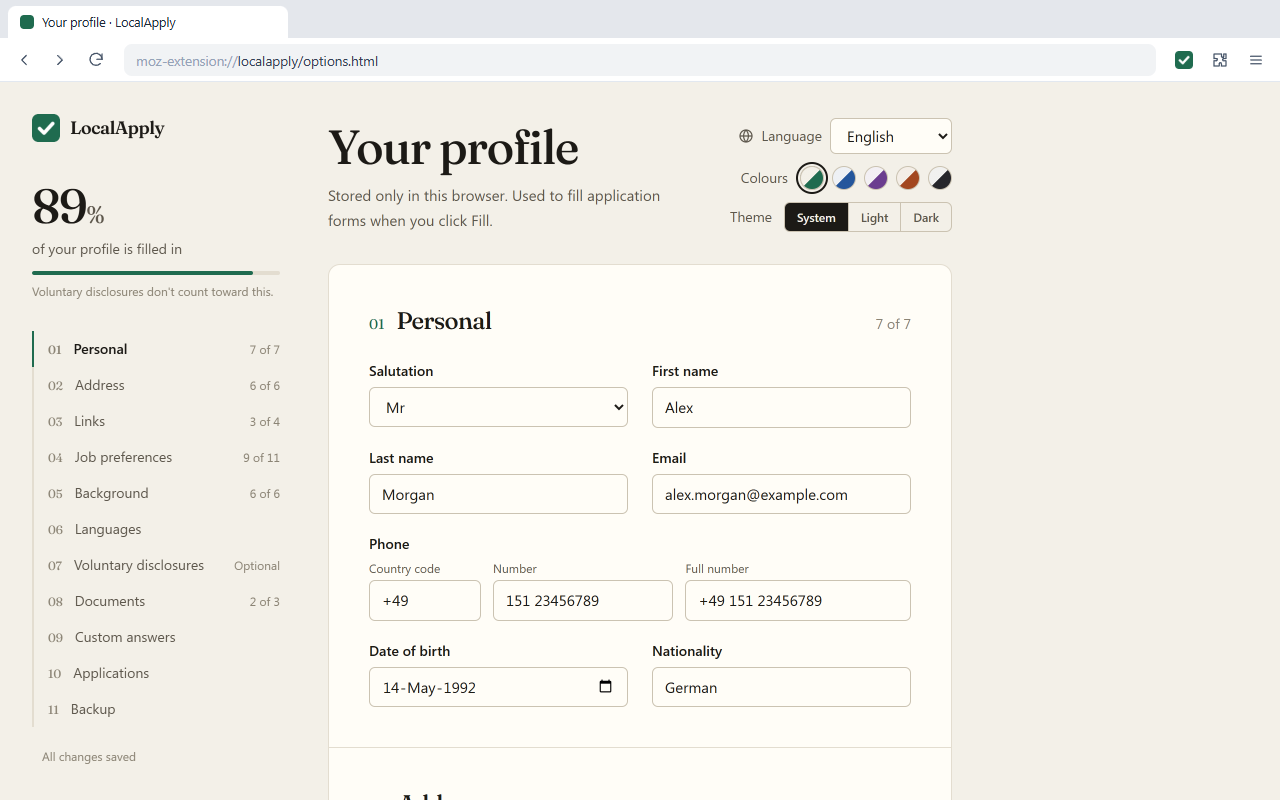
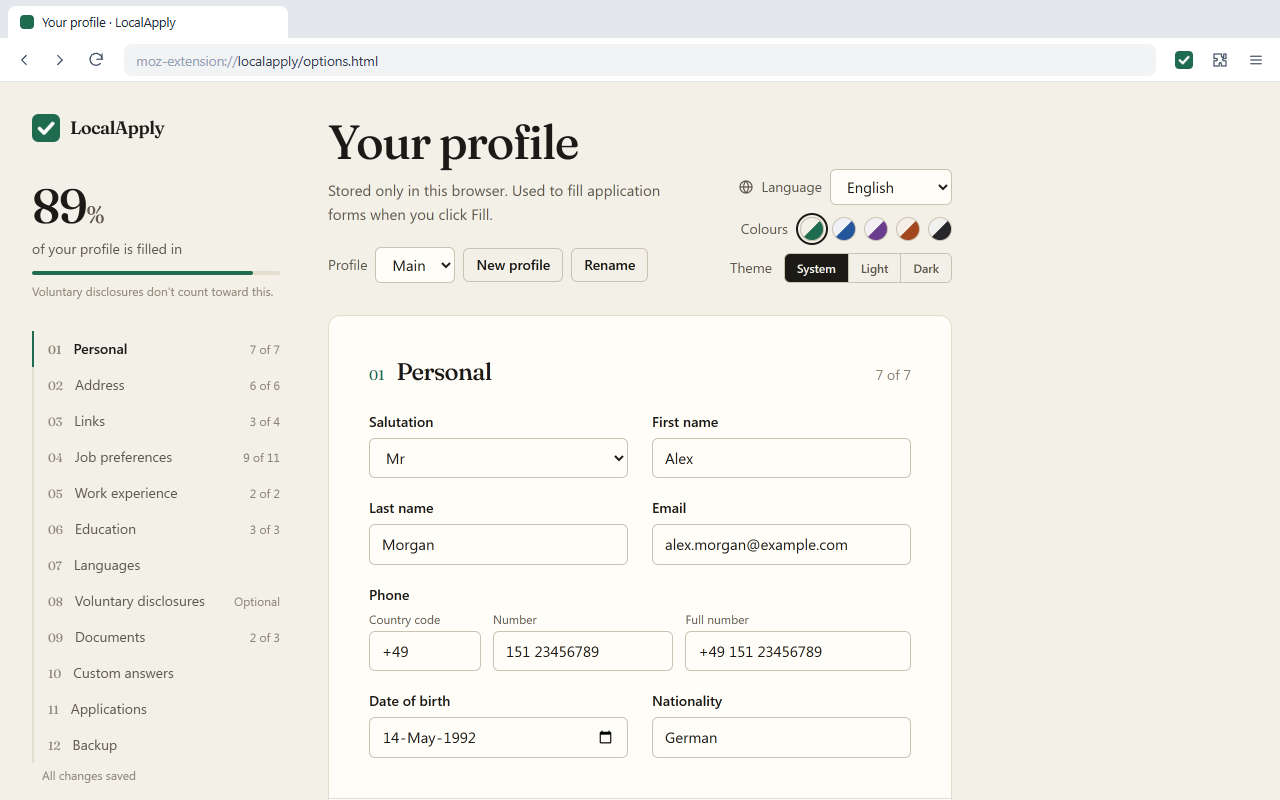
Privacy policy, docs and listings for 0.8.0
The privacy policy lists work history, education and several profiles, and the profile name in the application log. docs/architecture.md describes the per-profile storage and how list entries match form blocks. Store descriptions in all eight languages mention work history, education and profiles; store screenshots show the profile switcher and the new cards.

diff --git a/PRIVACY.md b/PRIVACY.md
@@ -9,8 +9,9 @@ LocalApply is a browser extension that fills job application forms with informat
 What you enter on its profile page, and the application log described below:
 
 - **Personal and contact details:** name, salutation, email address, phone number, date of birth, nationality and postal address.
-- **Professional details:** links (LinkedIn, GitHub, Xing, portfolio), current job title and employer, education and highest education level, spoken languages and their level, salary expectation and range, notice period, earliest start date, years of experience, work authorisation, visa sponsorship, relocation and travel preferences, and driving licence.
+- **Professional details:** links (LinkedIn, GitHub, Xing, portfolio), work history (job titles, employers, locations, dates and what you did), education (schools, degrees, fields of study and dates) and highest education level, spoken languages and their level, salary expectation and range, notice period, earliest start date, years of experience, work authorisation, visa sponsorship, relocation and travel preferences, and driving licence.
 - **Documents:** your CV and cover letter files, and cover letter text.
+- **Several profiles**, if you make more than one (for example one per language): each holds its own copy of the above, under a name you choose.
 - **Saved answers** to application questions.
 - **Optional voluntary disclosures**, only if you fill them in: gender, sexual orientation, disability status and veteran status.
 
@@ -18,7 +19,7 @@ To decide which form field needs which piece of your information, LocalApply rea
 
 ## Application log
 
-So you can see where you applied, LocalApply notes each application form it fills: the date, the employer's name and job title as read from the page, and the page's address without anything after it (no "?…" query, which can contain tokens). The log is on unless you turn it off, and is stored only in your browser like your profile. On the profile page, under Applications, you can turn it off, remove single entries, clear it, or export it as a CSV file. Nothing is noted for pages you only visit, and "Delete all data" clears the log too.
+So you can see where you applied, LocalApply notes each application form it fills: the date, the employer's name and job title as read from the page, the name of the profile that filled it, and the page's address without anything after it (no "?…" query, which can contain tokens). The log is on unless you turn it off, and is stored only in your browser like your profile. On the profile page, under Applications, you can turn it off, remove single entries, clear it, or export it as a CSV file. Nothing is noted for pages you only visit, and "Delete all data" clears the log too.
 
 ## How the information is used
 

diff --git a/README.md b/README.md
@@ -22,13 +22,14 @@ Everything stays in the browser: no account, no server, no AI service, no networ
 
 ## Features
 
-- **Fills the repetitive part:** name, email, phone (including country-code pickers), address, date of birth, LinkedIn, GitHub, Xing and portfolio links, salary expectation, notice period, start date, years of experience, work authorisation, visa sponsorship and relocation questions, current job, highest education level and degree, spoken languages and their level, driving licence, travel and salary-range questions, CV and cover letter.
+- **Fills the repetitive part:** name, email, phone (including country-code pickers), address, date of birth, LinkedIn, GitHub, Xing and portfolio links, salary expectation, notice period, start date, years of experience, work authorisation, visa sponsorship and relocation questions, work history and education (one entry per block, even on forms that list several jobs or schools), highest education level, spoken languages and their level, driving licence, travel and salary-range questions, CV and cover letter.
 - **Works in eight languages:** recognises form labels in English, German, French, Spanish, Italian, Dutch, Portuguese and Polish, and the interface itself speaks all eight.
 - **Writes to the right company:** put `{company}` and `{position}` in your cover letter or saved answers and they are replaced with the employer and job title from the page, even when the form sits in an embedded frame.
 - **Keeps track:** every application it fills is noted in a log in your browser, with date, company, job title and link, ready to export as CSV. You can turn it off.
 - **Answers each question once:** save your reply to a recurring question like "How did you hear about us?" and it is filled in next time.
 - **Shows what it did:** filled fields get a solid green outline, open required questions a dashed amber one. **Undo** puts everything back.
 - **Never submits:** it doesn't press Submit or Next, doesn't tick consent boxes, and leaves fields you already filled alone.
+- **Several profiles:** keep one per language or kind of job (a German CV, a QA one) and pick it in the popup before you fill.
 - **Looks the way you like:** five colour palettes (Forest, Ocean, Plum, Clay, Graphite), and a light or dark theme that follows your system or stays the way you set it.
 
 It works on ordinary company career pages and on Greenhouse, Ashby, Personio, Recruitee and Teamtailor, with site-specific handling for Workday, Lever, SmartRecruiters, SAP SuccessFactors and LinkedIn Easy Apply.

diff --git a/docs/architecture.md b/docs/architecture.md
@@ -28,7 +28,11 @@ popup  ◄──────────── fill-start / fill-result messages
 
 ## Data
 
-The profile (`src/profile/schema.ts`) is one object in `storage.local`, including documents as data URLs. `migrate()` turns anything read from storage or an imported file into a complete, current profile, running the version upgrades in `src/profile/migrations.ts` first.
+Each profile (`src/profile/schema.ts`) is one object in `storage.local` under `profile:<id>`, including documents as data URLs; `profileIndex` lists the profiles by name and says which one is active (`src/profile/store.ts`). Before 0.8.0 there was a single `profile` key; the first load moves it into the first profile. `migrate()` turns anything read from storage or an imported file into a complete, current profile, running the version upgrades in `src/profile/migrations.ts` first.
+
+Work history, education and languages are lists, most recent first. A form's n-th field of a key takes the n-th entry: `fillPage` counts fields per key and passes the count to `resolve()` as `ctx.index`, so a form with three job blocks gets three jobs. LocalApply never clicks "Add another"; the person adds the blocks, then fills.
+
+Settings that aren't profile data live next to it: interface language, palette and theme (`src/ui/`), and the application log with its on/off switch (`src/core/applications.ts`).
 
 Nothing leaves the browser. The extension has no network code; keep it that way, since both store listings and the Firefox data-collection declaration (`wxt.config.ts`) promise it.
 

diff --git a/store/firefox/reviewer-notes.md b/store/firefox/reviewer-notes.md
@@ -11,7 +11,7 @@ Source code is attached (localapply-<version>-sources.zip). To reproduce the sub
 
 The output in .output/firefox-mv2/ is identical to the uploaded file. Tooling: WXT 0.21 (Vite) with React 19 and Tailwind CSS 4.
 
-The add-on makes no network requests and loads no remote code. It stores the user's profile in storage.local (unlimitedStorage because the user's CV file is stored as a data URL), and an application log of the forms it filled (date, company, job title, page origin and path), which the user can turn off, clear or export as CSV from the profile page.
+The add-on makes no network requests and loads no remote code. It stores the user's profiles in storage.local (unlimitedStorage because the user's CV file is stored as a data URL), and an application log of the forms it filled (date, company, job title, page origin and path), which the user can turn off, clear or export as CSV from the profile page.
 
 The content script runs on <all_urls> in all frames because job application forms are hosted on arbitrary employer domains and are often embedded in iframes from applicant-tracking systems. It reads and writes form fields only when the user triggers a fill (toolbar popup or Alt+Shift+F). It never submits forms.
 

diff --git a/store/firefox/description.fr.md b/store/firefox/description.fr.md
@@ -16,7 +16,8 @@
 - Questions sur l’autorisation de travail, le visa et la mobilité
 - Langues parlées et leur niveau, permis de conduire, déplacements et fourchette de salaire
 - Votre lettre de motivation et vos réponses enregistrées, avec {company} et {position} remplacés par l’employeur et l’intitulé du poste
-- Poste actuel, employeur, formation et plus haut niveau d’études
+- Expérience et formation, une entrée par bloc dans les formulaires qui listent plusieurs postes ou écoles, et votre plus haut niveau d’études
+- Plusieurs profils, par exemple un par langue ou type de poste, à choisir dans la fenêtre de l’extension
 - CV et lettre de motivation en fichier, et texte de la lettre de motivation
 
 **Où il fonctionne**

diff --git a/store/firefox/description.pt.md b/store/firefox/description.pt.md
@@ -16,7 +16,8 @@
 - Perguntas sobre autorização de trabalho, visto e disponibilidade para mudar de cidade
 - Línguas e nível, carta de condução, disponibilidade para viajar e intervalo salarial
 - A sua carta de apresentação e respostas guardadas, com {company} e {position} substituídos pelo empregador e pelo cargo
-- Cargo atual, empregador, formação e nível de escolaridade mais alto
+- Experiência e formação, uma entrada por bloco em formulários com vários empregos ou escolas, e o seu nível de escolaridade mais alto
+- Vários perfis, por exemplo um por língua ou tipo de cargo, escolhidos na janela da extensão
 - CV e carta de apresentação em ficheiro, e texto da carta
 
 **Onde funciona**

diff --git a/store/firefox/description.pl.md b/store/firefox/description.pl.md
@@ -16,7 +16,8 @@
 - Pytania o pozwolenie na pracę, sponsorowanie wizy i przeprowadzkę
 - Języki i ich poziom, prawo jazdy, gotowość do podróży i widełki wynagrodzenia
 - List motywacyjny i zapisane odpowiedzi, z {company} i {position} zastąpionymi przez pracodawcę i stanowisko
-- Obecne stanowisko, pracodawcę, wykształcenie i najwyższy poziom wykształcenia
+- Doświadczenie i wykształcenie, jeden wpis na blok w formularzach z kilkoma miejscami pracy lub szkołami, oraz najwyższy poziom wykształcenia
+- Kilka profili, np. jeden na język lub rodzaj pracy, wybierany w oknie rozszerzenia
 - CV i list motywacyjny jako plik oraz treść listu motywacyjnego
 
 **Gdzie działa**

diff --git a/store/firefox/description.es.md b/store/firefox/description.es.md
@@ -16,7 +16,8 @@
 - Preguntas sobre permiso de trabajo, patrocinio de visado y traslado
 - Idiomas y su nivel, carné de conducir, viajes y rango salarial
 - Tu carta de presentación y tus respuestas guardadas, con {company} y {position} sustituidos por la empresa y el puesto
-- Puesto actual, empresa, formación y nivel de estudios más alto
+- Experiencia y formación, una entrada por bloque en formularios con varios empleos o centros, y tu nivel de estudios más alto
+- Varios perfiles, por ejemplo uno por idioma o tipo de puesto, que eliges en la ventana de la extensión
 - CV y carta de presentación como archivo, y texto de la carta
 
 **Dónde funciona**

diff --git a/store/firefox/description.it.md b/store/firefox/description.it.md
@@ -16,7 +16,8 @@
 - Domande su permesso di lavoro, visto e disponibilità al trasferimento
 - Lingue e livello, patente, disponibilità a viaggiare e fascia di stipendio
 - Lettera di presentazione e risposte salvate, con {company} e {position} sostituiti da azienda e ruolo
-- Ruolo attuale, datore di lavoro, formazione e titolo di studio più alto
+- Esperienze e istruzione, una voce per blocco nei moduli con più lavori o scuole, e il titolo di studio più alto
+- Più profili, ad esempio uno per lingua o tipo di lavoro, da scegliere nella finestra dell’estensione
 - CV e lettera di presentazione come file, e testo della lettera
 
 **Dove funziona**

diff --git a/store/firefox/description.de.md b/store/firefox/description.de.md
@@ -16,7 +16,8 @@
 - Fragen zu Arbeitserlaubnis, Visum und Umzugsbereitschaft
 - Sprachen mit Niveau, Führerschein, Reisebereitschaft und Gehaltsspanne
 - Anschreiben und gespeicherte Antworten, mit {company} und {position} durch Arbeitgeber und Stellentitel ersetzt
-- Aktuelle Position, Arbeitgeber, Ausbildung und höchster Bildungsabschluss
+- Berufserfahrung und Ausbildung, ein Eintrag pro Block in Formularen mit mehreren Stationen, und dein höchster Bildungsabschluss
+- Mehrere Profile, etwa eines pro Sprache oder Art von Stelle, im Pop-up auswählbar
 - Lebenslauf und Anschreiben als Datei sowie Anschreiben als Text
 
 **Wo es funktioniert**

diff --git a/store/firefox/description.nl.md b/store/firefox/description.nl.md
@@ -16,7 +16,8 @@
 - Vragen over werkvergunning, visumsponsoring en verhuizen
 - Talen en niveau, rijbewijs, reisbereidheid en salarisrange
 - Je motivatiebrief en bewaarde antwoorden, met {company} en {position} vervangen door werkgever en functietitel
-- Huidige functie, werkgever, opleiding en hoogst genoten opleiding
+- Werkervaring en opleiding, één item per blok in formulieren met meerdere banen of scholen, en je hoogst genoten opleiding
+- Meerdere profielen, bijvoorbeeld één per taal of soort functie, te kiezen in het venster van de extensie
 - Cv en motivatiebrief als bestand, en de tekst van de motivatiebrief
 
 **Waar het werkt**

diff --git a/store/firefox/description.en.md b/store/firefox/description.en.md
@@ -16,7 +16,8 @@
 - Work authorisation, visa sponsorship and relocation questions
 - Spoken languages and their level, driving licence, travel and salary-range questions
 - Your cover letter and saved answers, with {company} and {position} replaced by the employer and job title
-- Current job title, employer, education and highest education level
+- Work history and education, one entry per block on forms that list several jobs or schools, and your highest education level
+- Several profiles, for example one per language or kind of job, chosen in the popup
 - CV and cover letter uploads, and cover letter text
 
 **Where it works**
